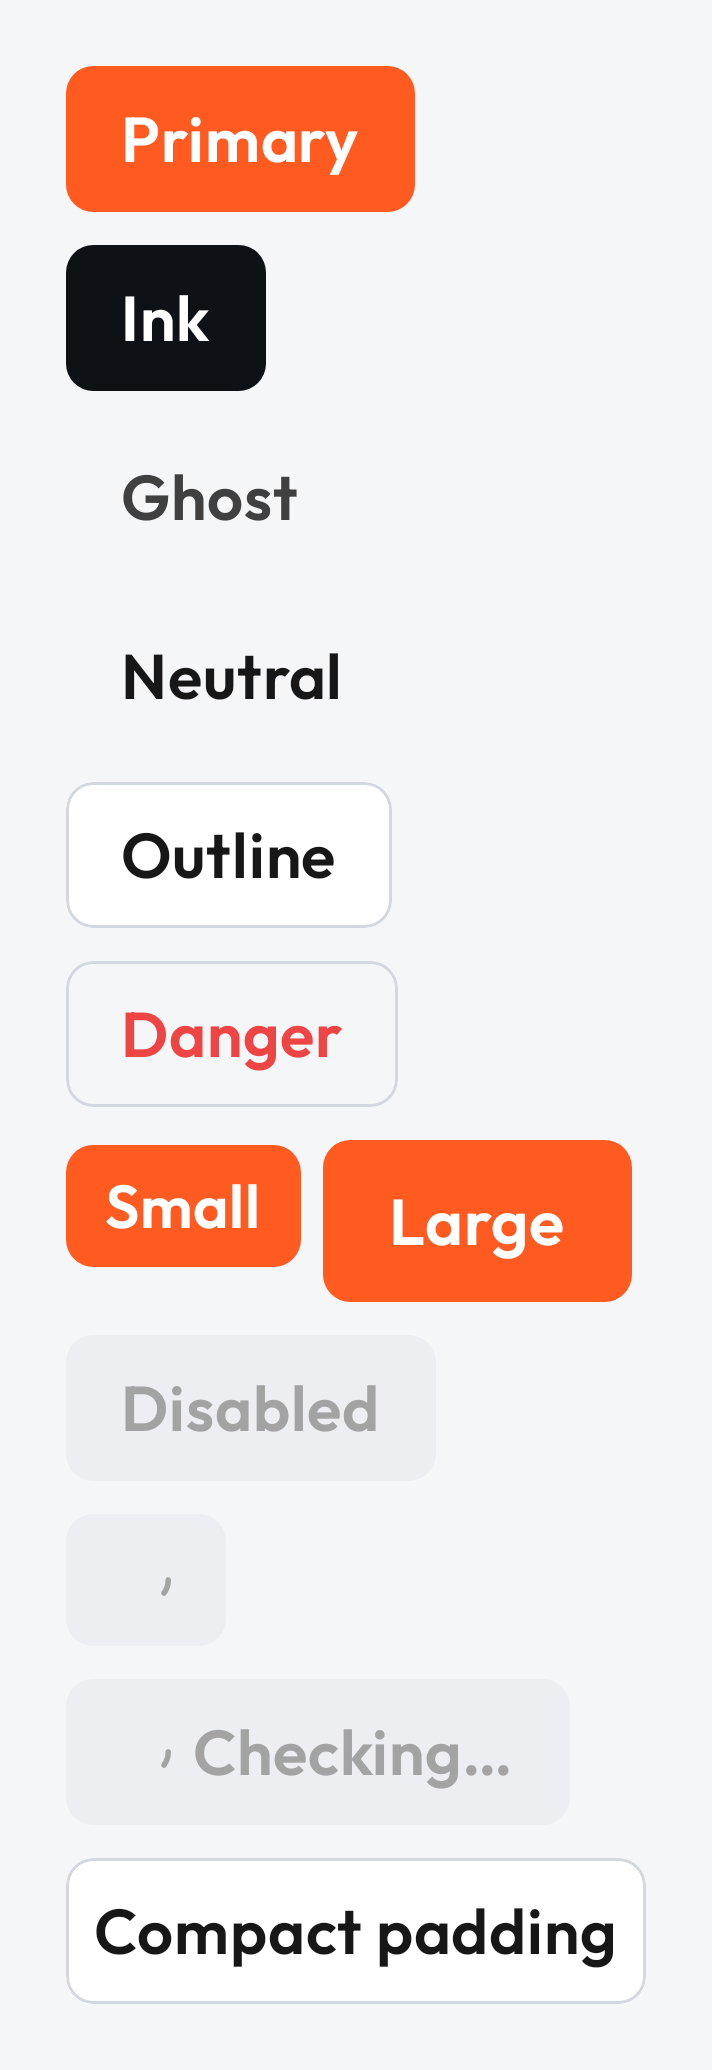
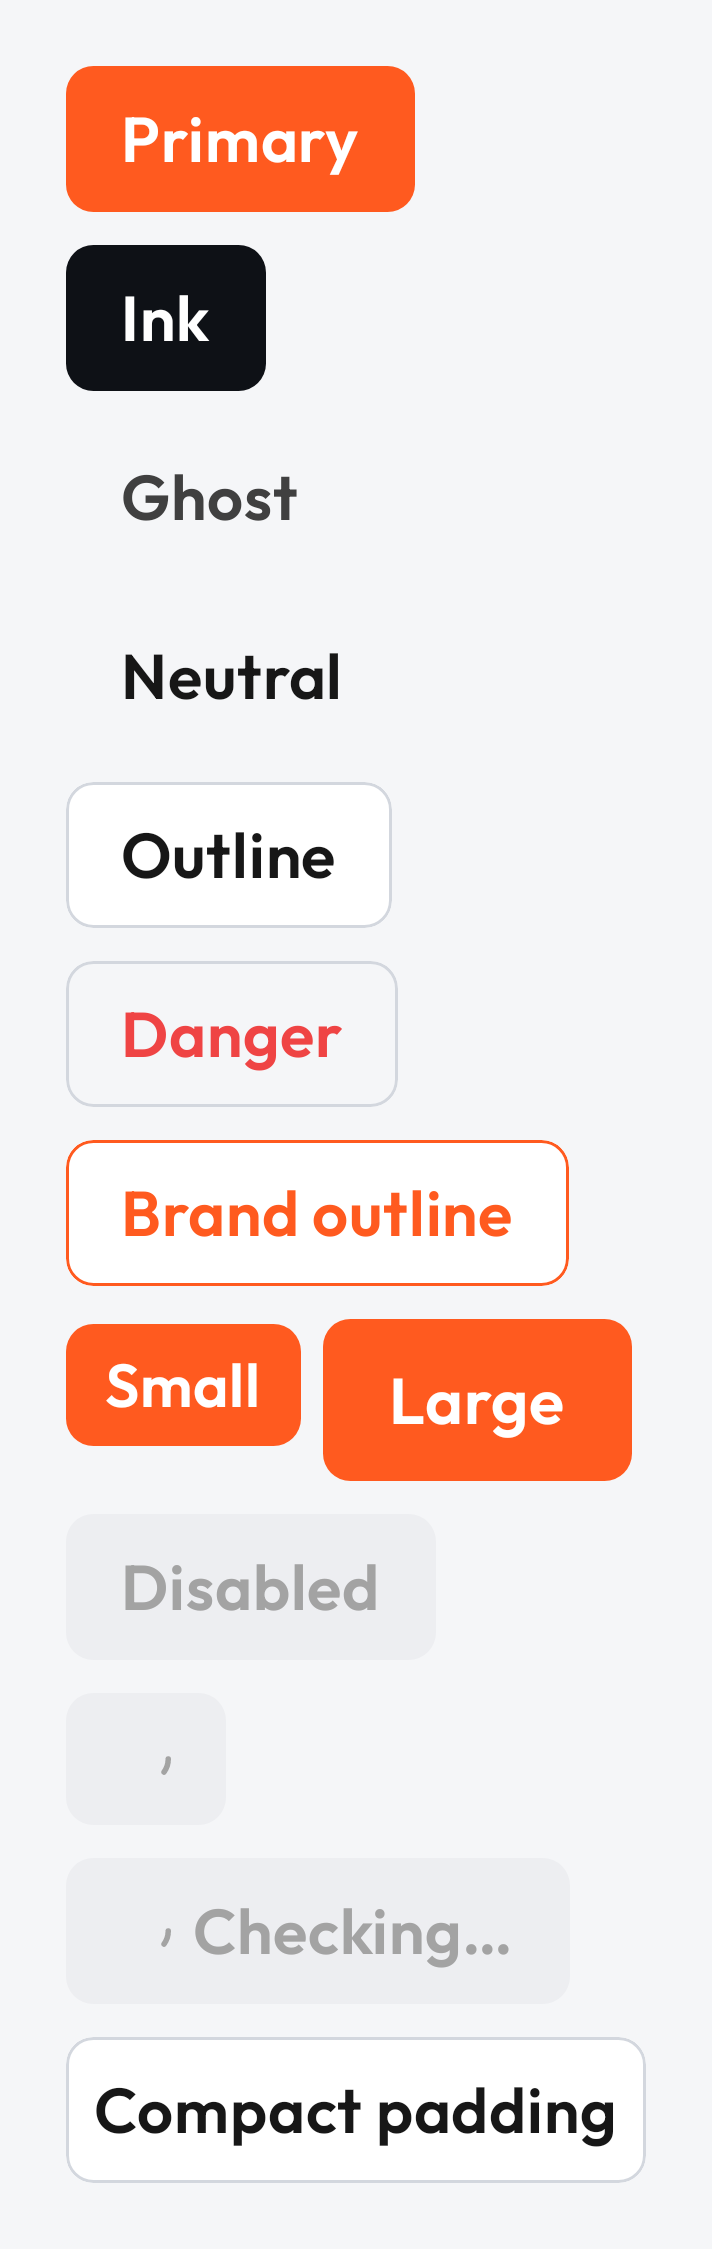
Add BrandOutline button variant

diff --git a/jenga/src/commonMain/kotlin/io/github/joelkanyi/jenga/component/button/JengaButton.kt b/jenga/src/commonMain/kotlin/io/github/joelkanyi/jenga/component/button/JengaButton.kt
@@ -49,6 +49,9 @@ public enum class JengaButtonVariant {
 
     /** Destructive action: bordered, error-colored. */
     Danger,
+
+    /** Medium-emphasis in the brand color: brand border and label on a surface fill. */
+    BrandOutline,
 }
 
 /** Size of a [JengaButton]; controls height, padding and label style. */
@@ -117,6 +120,7 @@ public class JengaButtonSizeStyle(
  * @property neutral colors for [JengaButtonVariant.Neutral].
  * @property outline colors for [JengaButtonVariant.Outline].
  * @property danger colors for [JengaButtonVariant.Danger].
+ * @property brandOutline colors for [JengaButtonVariant.BrandOutline].
  */
 @Poko
 @androidx.compose.runtime.Immutable
@@ -130,7 +134,21 @@ public class JengaButtonStyle(
     public val neutral: JengaButtonColors? = null,
     public val outline: JengaButtonColors? = null,
     public val danger: JengaButtonColors? = null,
+    public val brandOutline: JengaButtonColors? = null,
 ) {
+    @Deprecated("Kept for binary compatibility", level = DeprecationLevel.HIDDEN)
+    public constructor(
+        small: JengaButtonSizeStyle? = null,
+        medium: JengaButtonSizeStyle? = null,
+        large: JengaButtonSizeStyle? = null,
+        primary: JengaButtonColors? = null,
+        ink: JengaButtonColors? = null,
+        ghost: JengaButtonColors? = null,
+        neutral: JengaButtonColors? = null,
+        outline: JengaButtonColors? = null,
+        danger: JengaButtonColors? = null,
+    ) : this(small, medium, large, primary, ink, ghost, neutral, outline, danger, brandOutline = null)
+
     public fun copy(
         small: JengaButtonSizeStyle? = this.small,
         medium: JengaButtonSizeStyle? = this.medium,
@@ -141,7 +159,21 @@ public class JengaButtonStyle(
         neutral: JengaButtonColors? = this.neutral,
         outline: JengaButtonColors? = this.outline,
         danger: JengaButtonColors? = this.danger,
-    ): JengaButtonStyle = JengaButtonStyle(small, medium, large, primary, ink, ghost, neutral, outline, danger)
+        brandOutline: JengaButtonColors? = this.brandOutline,
+    ): JengaButtonStyle = JengaButtonStyle(small, medium, large, primary, ink, ghost, neutral, outline, danger, brandOutline)
+
+    @Deprecated("Kept for binary compatibility", level = DeprecationLevel.HIDDEN)
+    public fun copy(
+        small: JengaButtonSizeStyle? = this.small,
+        medium: JengaButtonSizeStyle? = this.medium,
+        large: JengaButtonSizeStyle? = this.large,
+        primary: JengaButtonColors? = this.primary,
+        ink: JengaButtonColors? = this.ink,
+        ghost: JengaButtonColors? = this.ghost,
+        neutral: JengaButtonColors? = this.neutral,
+        outline: JengaButtonColors? = this.outline,
+        danger: JengaButtonColors? = this.danger,
+    ): JengaButtonStyle = copy(small, medium, large, primary, ink, ghost, neutral, outline, danger, this.brandOutline)
 
     internal fun size(size: JengaButtonSize): JengaButtonSizeStyle? = when (size) {
         JengaButtonSize.Small -> small
@@ -156,6 +188,7 @@ public class JengaButtonStyle(
         JengaButtonVariant.Neutral -> neutral
         JengaButtonVariant.Outline -> outline
         JengaButtonVariant.Danger -> danger
+        JengaButtonVariant.BrandOutline -> brandOutline
     }
 }
 
@@ -255,6 +288,14 @@ public object JengaButtonDefaults {
                 content = c.error,
                 border = c.borderStrong,
                 disabledContainer = Color.Transparent,
+                disabledContent = c.contentDisabled,
+                disabledBorder = c.borderDisabled,
+            )
+            JengaButtonVariant.BrandOutline -> JengaButtonColors(
+                container = c.surface,
+                content = c.brand,
+                border = c.brand,
+                disabledContainer = c.surfaceDisabled,
                 disabledContent = c.contentDisabled,
                 disabledBorder = c.borderDisabled,
             )

diff --git a/jenga/src/androidUnitTest/kotlin/io/github/joelkanyi/jenga/component/button/JengaButtonLoadingTest.kt b/jenga/src/androidUnitTest/kotlin/io/github/joelkanyi/jenga/component/button/JengaButtonLoadingTest.kt
@@ -2,6 +2,7 @@ package io.github.joelkanyi.jenga.component.button
 
 import androidx.compose.foundation.layout.PaddingValues
 import androidx.compose.ui.Modifier
+import androidx.compose.ui.graphics.Color
 import androidx.compose.ui.platform.testTag
 import androidx.compose.ui.semantics.SemanticsActions
 import androidx.compose.ui.test.assertIsNotEnabled
@@ -18,6 +19,7 @@ import androidx.compose.ui.unit.width
 import io.github.joelkanyi.jenga.component.badge.JengaBadgeTone
 import io.github.joelkanyi.jenga.component.status.JengaStatusPill
 import io.github.joelkanyi.jenga.component.text.JengaText
+import io.github.joelkanyi.jenga.theme.JengaComponentStyles
 import io.github.joelkanyi.jenga.theme.JengaTheme
 import org.junit.Assert.assertEquals
 import org.junit.Rule
@@ -131,5 +133,27 @@ class JengaButtonLoadingTest {
             it(layouts)
         }
         assertEquals(13.5.sp, layouts.single().layoutInput.style.fontSize)
+    }
+
+    @Test
+    fun brandOutlineUsesBrandBorderAndLabel() {
+        compose.setContent {
+            JengaTheme {
+                val colors = JengaButtonDefaults.colors(JengaButtonVariant.BrandOutline)
+                assertEquals(JengaTheme.colors.brand, colors.content)
+                assertEquals(JengaTheme.colors.brand, colors.border)
+                assertEquals(JengaTheme.colors.surface, colors.container)
+            }
+        }
+    }
+
+    @Test
+    fun brandOutlineFollowsThemeStyle() {
+        val themed = JengaButtonColors(Color.Red, Color.Green, Color.Blue, Color.Gray, Color.Gray, Color.Gray)
+        compose.setContent {
+            JengaTheme(components = JengaComponentStyles(button = JengaButtonStyle(brandOutline = themed))) {
+                assertEquals(themed, JengaButtonDefaults.colors(JengaButtonVariant.BrandOutline))
+            }
+        }
     }
 }

diff --git a/jenga/src/androidMain/kotlin/io/github/joelkanyi/jenga/component/button/JengaButtonPreviews.kt b/jenga/src/androidMain/kotlin/io/github/joelkanyi/jenga/component/button/JengaButtonPreviews.kt
@@ -45,6 +45,7 @@ private fun ButtonShowcase() {
         JengaButton(text = "Neutral", onClick = {}, variant = JengaButtonVariant.Neutral)
         JengaButton(text = "Outline", onClick = {}, variant = JengaButtonVariant.Outline)
         JengaButton(text = "Danger", onClick = {}, variant = JengaButtonVariant.Danger)
+        JengaButton(text = "Brand outline", onClick = {}, variant = JengaButtonVariant.BrandOutline)
         Row(horizontalArrangement = Arrangement.spacedBy(JengaTheme.spacing.sm)) {
             JengaButton(text = "Small", onClick = {}, size = JengaButtonSize.Small)
             JengaButton(text = "Large", onClick = {}, size = JengaButtonSize.Large)

diff --git a/CHANGELOG.md b/CHANGELOG.md
@@ -5,6 +5,7 @@
  * New: `JengaButton` (text overload) takes `contentPadding` and `textStyle`.
  * New: `JengaProgressTone.Error`, and `error` colors in `JengaProgressStyle`. A `when` over `JengaProgressTone` without an `else` branch needs the new case.
  * New: `JengaCard` takes `selected`, drawing a brand border and reporting the card as selected to accessibility services.
+ * New: `JengaButtonVariant.BrandOutline`, a brand border and label on a surface fill, and `brandOutline` colors in `JengaButtonStyle`. A `when` over `JengaButtonVariant` without an `else` branch needs the new case.
 
 ## Version 0.8.1
 
